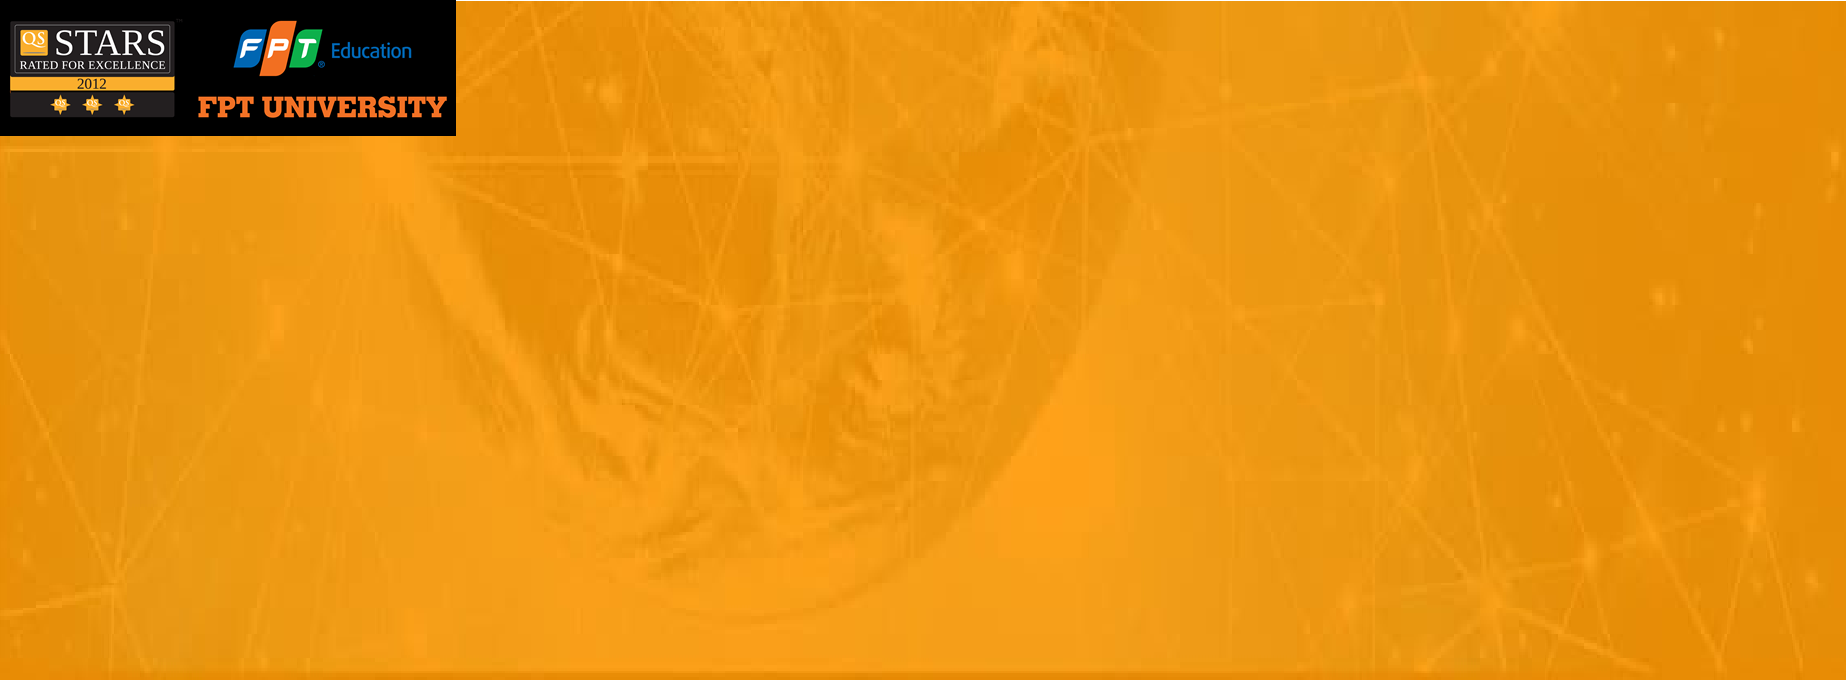
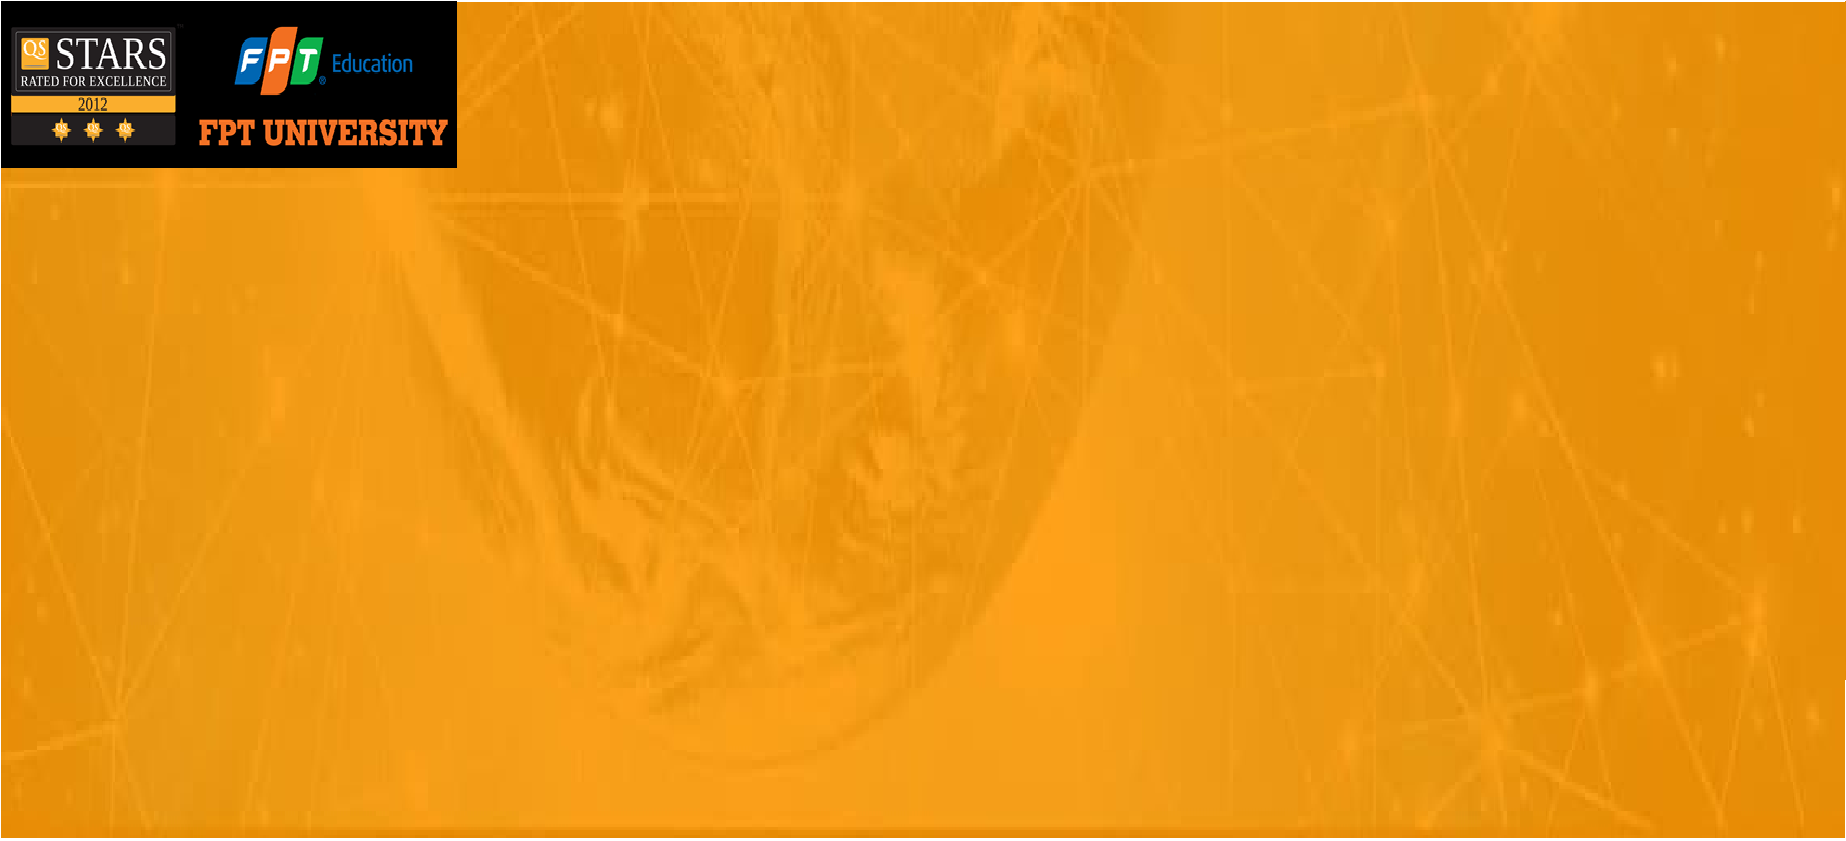
background fix

Changed region(s): [[0.0, 0.0308, 0.247, 0.1848], [0.9881, 0.9853, 1.0, 1.0], [0.0, 0.9853, 0.0309, 1.0]]

diff --git a/PRJ_Assignment/web/view/style.css b/PRJ_Assignment/web/view/style.css
@@ -1,6 +1,6 @@
 body{
     background-image: url(../img/background.png);
-
+    background-size: cover;
 }
 #container{
     font-size: 1.6rem;
